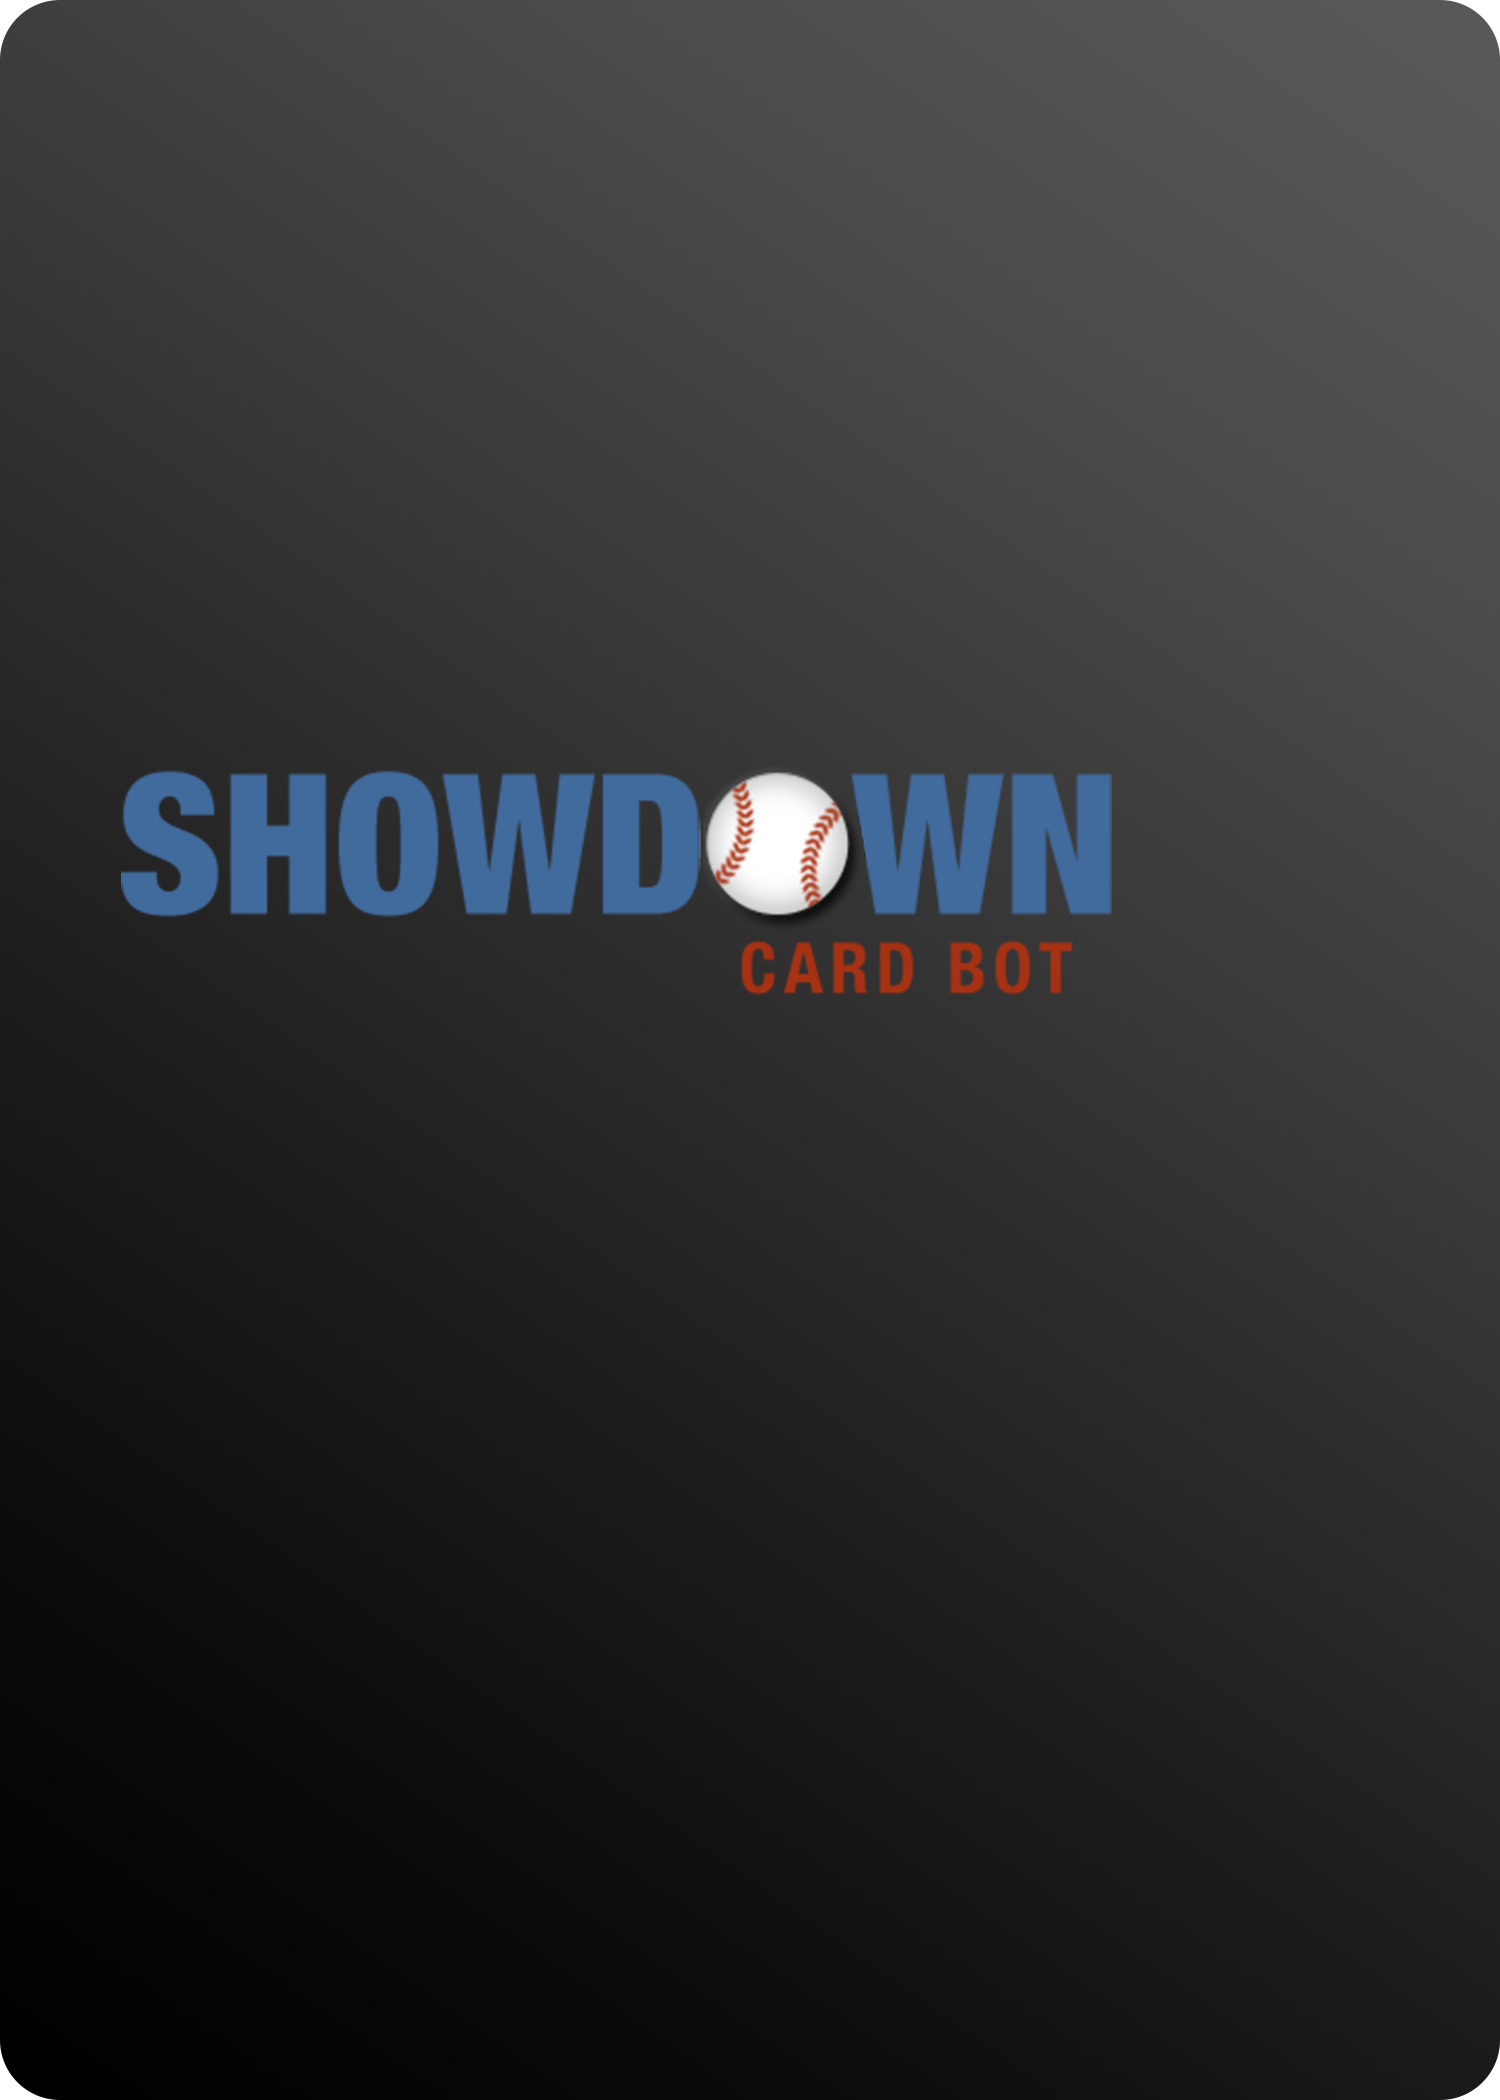
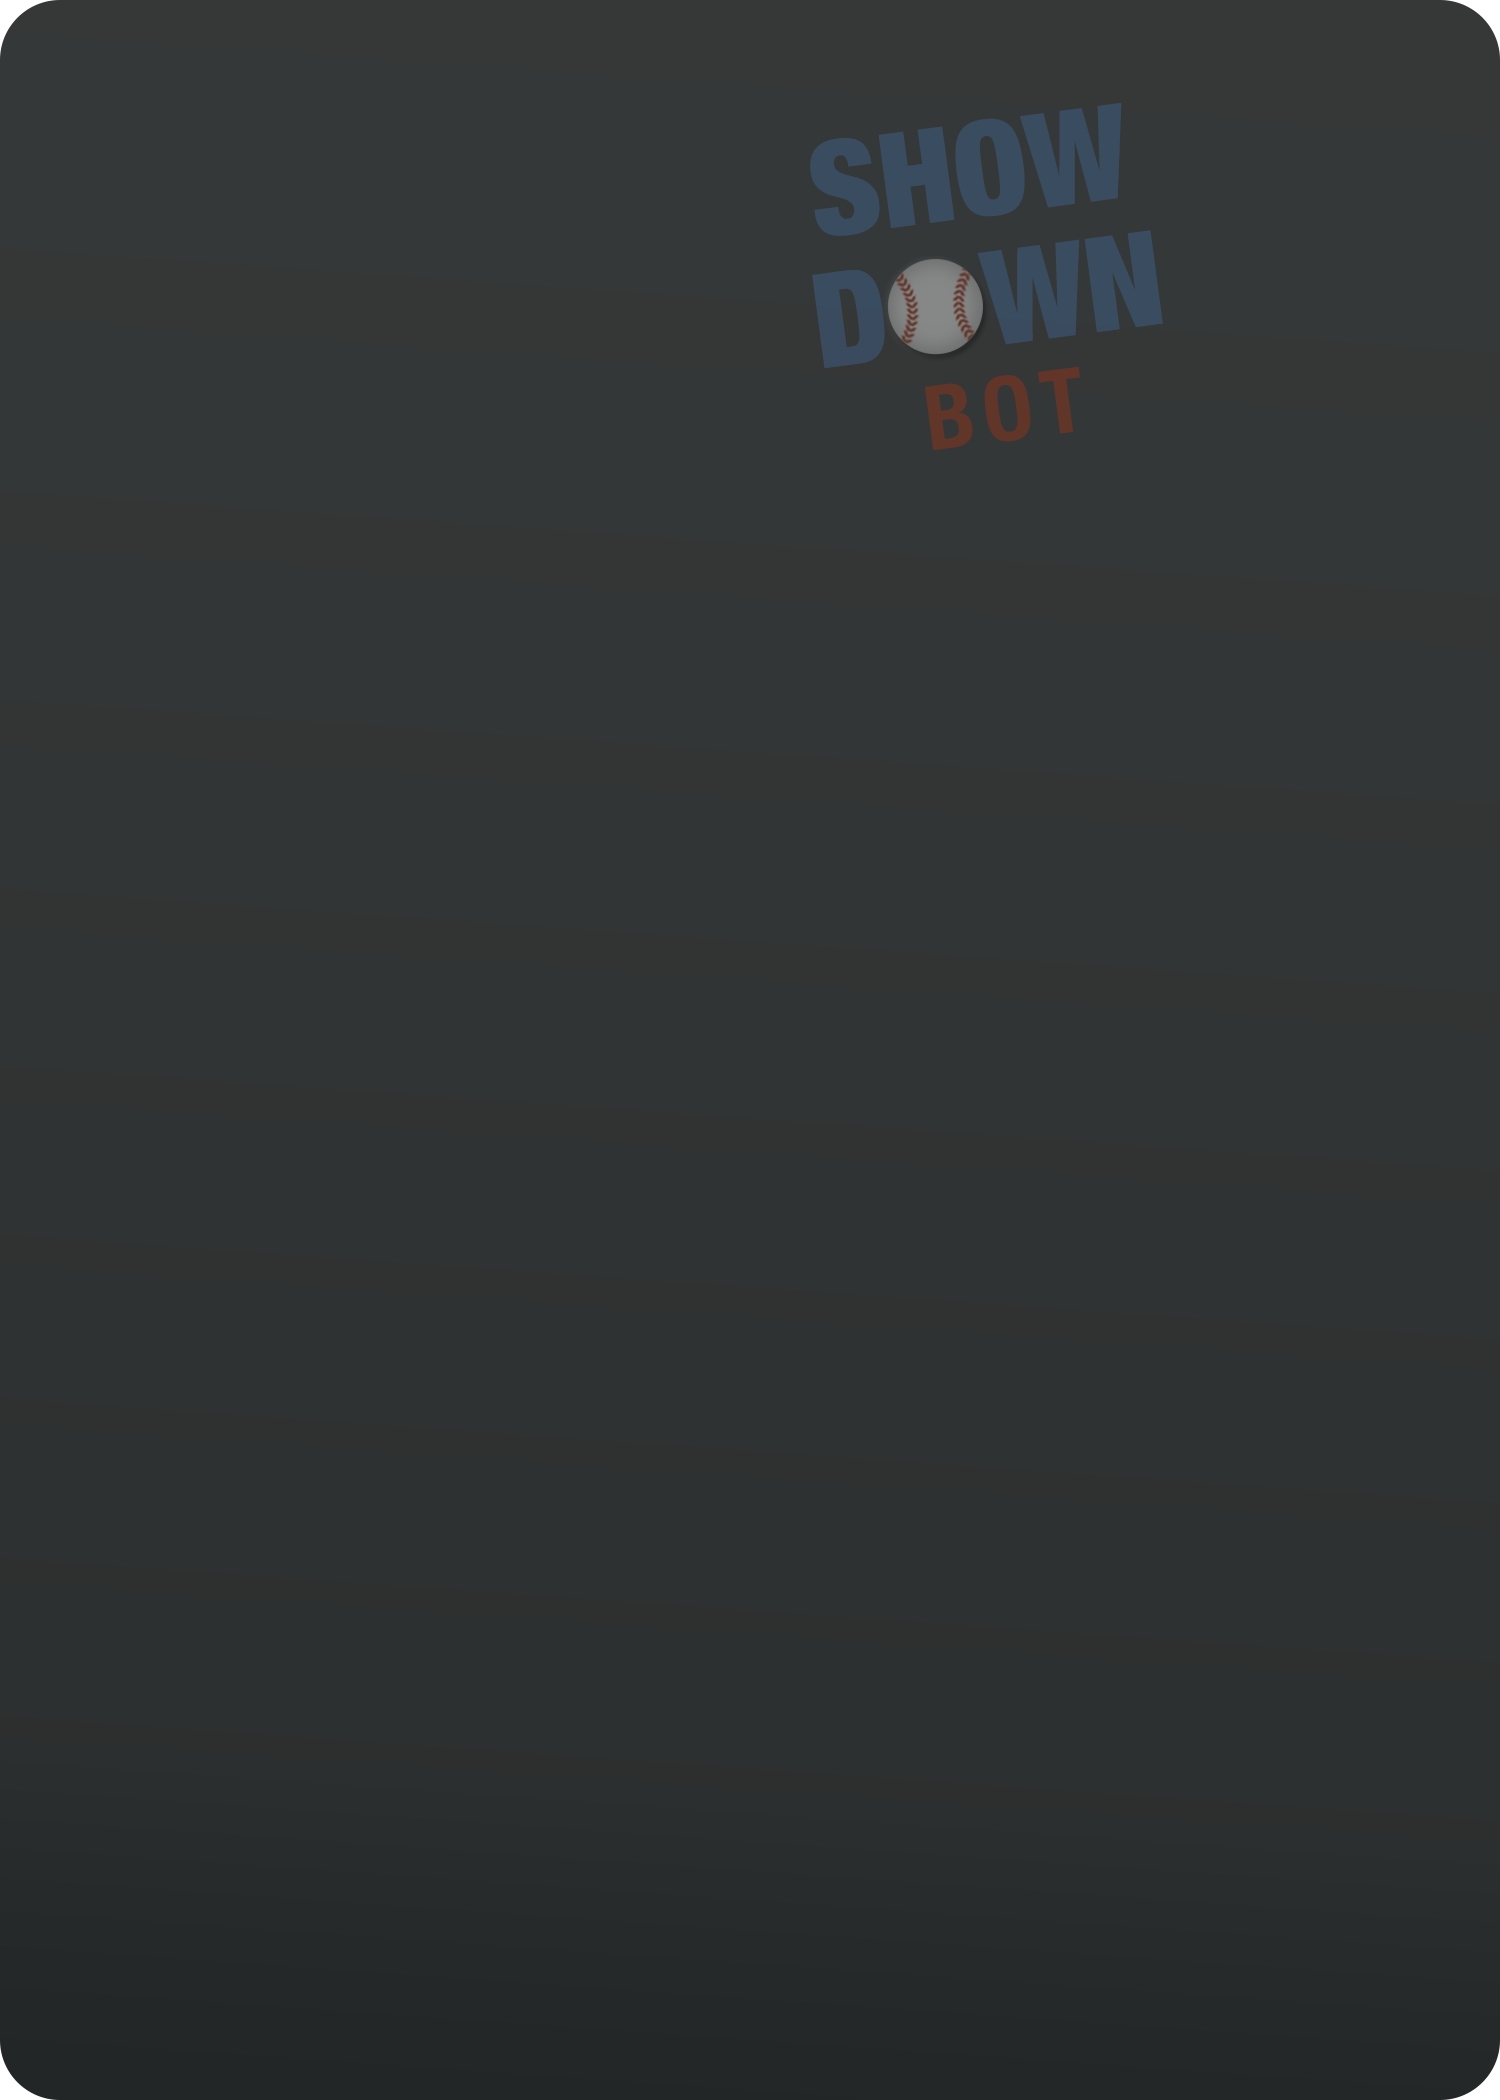
Add updated backgrounds, version number to image

diff --git a/mlb_showdown_bot/showdown_player_card_generator.py b/mlb_showdown_bot/showdown_player_card_generator.py
@@ -7,7 +7,7 @@ import json
 
 from pathlib import Path
 from io import BytesIO
-from datetime import datetime
+from datetime import datetime, date
 from bs4 import BeautifulSoup
 from pprint import pprint
 from PIL import Image, ImageDraw, ImageFont, ImageOps, ImageFilter
@@ -30,6 +30,7 @@ class ShowdownPlayerCardGenerator:
         # ASSIGNED ATTRIBUTES
         is_name_a_bref_id = any(char.isdigit() for char in name)
         has_special_chars = '(' in name
+        self.version = "2.2"
         self.name = stats['name'] if is_name_a_bref_id or has_special_chars else name
         self.year = year
         self.context = context
@@ -1710,6 +1711,9 @@ class ShowdownPlayerCardGenerator:
             chart_cords = sc.IMAGE_LOCATIONS['chart'][str(self.context)]
         player_image.paste(color, chart_cords, chart_image)
 
+        version_image = self.__version_image()
+        player_image.paste("#b5b4b4", sc.IMAGE_LOCATIONS['version'][str(self.context)], version_image)
+        
         # ICONS
         if int(self.context) > 2002:
             player_image = self.__add_icons_to_image(player_image)
@@ -1768,6 +1772,16 @@ class ShowdownPlayerCardGenerator:
         else:
             # DEFAULT BACKGROUND
             player_image = Image.open(default_image_path)
+            # ADD PLAYER SILHOUETTE
+            try:
+                type_string = 'P' if self.is_pitcher else 'H'
+                hand_prefix = self.hand[0 if self.is_pitcher else -1]
+                hand_string = 'L' if hand_prefix == 'S' else hand_prefix
+                silhouetee_image_path = os.path.join(os.path.dirname(__file__), 'templates', f'{self.context}-SIL-{hand_string}H{type_string}.png')
+                silhouetee_image = Image.open(silhouetee_image_path)
+                player_image.paste(silhouetee_image,(0,0),silhouetee_image)
+            except:
+                print("Error loading player silhouetee")
 
         player_image = self.__center_crop(player_image, (1500,2100))
 
@@ -2320,6 +2334,27 @@ class ShowdownPlayerCardGenerator:
             set_image.paste(number_color, sc.IMAGE_LOCATIONS['number'][str(self.context)], number_text)
 
         return set_image
+
+    def __version_image(self):
+        """Adds version number licensing text.
+
+        Args:
+          None
+
+        Returns:
+          PIL image object for version number
+        """
+        helvetica_neue_cond_bold_path = os.path.join(os.path.dirname(__file__), 'fonts', 'HelveticaNeueCondensedBold.ttf')
+        text_font = ImageFont.truetype(helvetica_neue_cond_bold_path, size=50 if self.context not in ['2004','2005'] else 35)
+        # DATE NUMBER
+        version_text = self.__text_image(
+            text = f"v{self.version}",
+            size = (450, 450),
+            font = text_font,
+            alignment = "left"
+        )
+        version_text = version_text.resize((150,150), Image.ANTIALIAS)
+        return version_text
 
     def __super_season_image(self):
         """Creates image for optional super season attributes. Add accolades for

diff --git a/mlb_showdown_bot/showdown_constants.py b/mlb_showdown_bot/showdown_constants.py
@@ -1505,7 +1505,15 @@ IMAGE_LOCATIONS = {
         '2003': (1041,786),
         '2004': (1071,1164),
         '2005': (1071,1164),
-    }
+    },
+    'version': {
+        '2000': (1374,2050),
+        '2001': (1374,2050),
+        '2002': (164,2011),
+        '2003': (752,1810),
+        '2004': (1355,2069),
+        '2005': (1355,2069),
+    },
 }
 
 """ LIST OF ICON IMAGE COORDINATES FOR EACH ICON INDEX """
